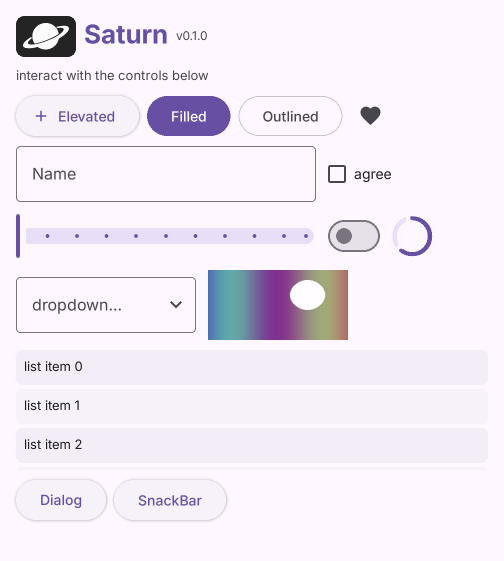
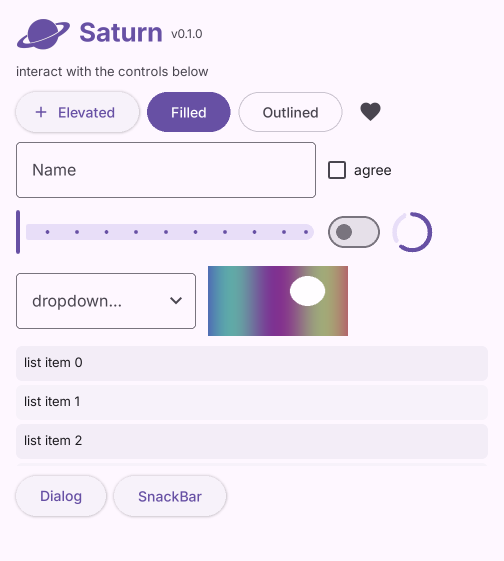
docs(brand): expand README screenshot gallery with theme-tinted demos

diff --git a/examples/buttons_demo.py b/examples/buttons_demo.py
@@ -49,4 +49,4 @@ class Application:
 
 
 s = Application()
-app = ft.run(main=s.create_window, backend=ft.Render.SOFTWARE, width=420, height=380)
+app = ft.run(main=s.create_window, backend=ft.Render.SOFTWARE, width=420, height=520)

diff --git a/README.md b/README.md
@@ -33,21 +33,51 @@ If you're looking to build a **web application**, [use Flet instead](https://fle
   <tr>
     <td align="center">
       <strong>Demo</strong><br>
-      <img src="./shots/demo.png" alt="Saturn controls demo">
+      <img src="./shots/demo.png" width="440" alt="Saturn controls demo">
     </td>
     <td align="center">
       <strong>Layout</strong><br>
-      <img src="./shots/layout-demo.png" alt="Saturn layout demo">
+      <img src="./shots/layout-demo.png" width="440" alt="Saturn layout demo">
     </td>
   </tr>
   <tr>
     <td align="center">
       <strong>Text</strong><br>
-      <img src="./shots/text-demo.png" alt="Saturn text demo">
+      <img src="./shots/text-demo.png" width="440" alt="Saturn text demo">
     </td>
     <td align="center">
       <strong>Widgets</strong><br>
-      <img src="./shots/widgets-demo.png" alt="Saturn widgets demo">
+      <img src="./shots/widgets-demo.png" width="440" alt="Saturn widgets demo">
+    </td>
+  </tr>
+  <tr>
+    <td align="center">
+      <strong>Buttons</strong><br>
+      <img src="./shots/buttons-demo.png" width="440" alt="Saturn button variants">
+    </td>
+    <td align="center">
+      <strong>Inputs</strong><br>
+      <img src="./shots/inputs-demo.png" width="440" alt="Saturn input controls">
+    </td>
+  </tr>
+  <tr>
+    <td align="center">
+      <strong>Expressive · Light</strong><br>
+      <img src="./shots/expressive-light.png" width="440" alt="Expressive controls with light theme">
+    </td>
+    <td align="center">
+      <strong>Expressive · Dark</strong><br>
+      <img src="./shots/expressive-dark.png" width="440" alt="Expressive controls with dark theme">
+    </td>
+  </tr>
+  <tr>
+    <td align="center">
+      <strong>Motion</strong><br>
+      <img src="./shots/expressive-motion.png" width="440" alt="Expressive loading and motion controls">
+    </td>
+    <td align="center">
+      <strong>FAB Menu</strong><br>
+      <img src="./shots/expressive-menu.png" width="440" alt="Expanded floating action button menu">
     </td>
   </tr>
 </table>
@@ -181,6 +211,8 @@ The public API also includes theme, alignment, padding, border, shadow, animatio
 | [`examples/buttons_demo.py`](./examples/buttons_demo.py) | Button variants and events |
 | [`examples/text_demo.py`](./examples/text_demo.py) | Typography and text behavior |
 | [`examples/widgets_demo.py`](./examples/widgets_demo.py) | Icons, images, cards, and progress indicators |
+| [`examples/expressive_demo.py`](./examples/expressive_demo.py) | Expressive controls in light and dark themes |
+| [`examples/expressive_motion_demo.py`](./examples/expressive_motion_demo.py) | Loading shapes, waves, toolbar, and FAB menu |
 
 Run the full showcase with either renderer:
 
